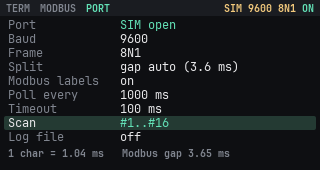
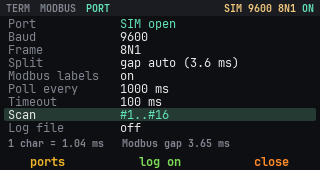
czkit: ShortcutBar for keys 4-8 under the display (Store layout); SerialPuter uses it
- cz::ShortcutBar: labels centred over keys 4..8, Store colours, disabled grey
- SerialPuter PORT: 4 rescan ports, 6 log, 8 open/close; F/X/Z/C as arrows without Fn
  on PORT and MODBUS (no text input there)

Claude-Session: https://claude.ai/code/session_017qLHAkC6kcghx4Uy9wAKgW

Changed region(s): [[0.0, 0.0882, 1.0, 1.0], [0.7812, 0.9118, 0.9062, 1.0], [0.4688, 0.1176, 0.5625, 0.1765]]

diff --git a/apps/serialputer/src/port_page.cpp b/apps/serialputer/src/port_page.cpp
@@ -8,9 +8,10 @@ namespace {
 
 namespace key = platform::key;
 
-constexpr int kRowY = 2;
-constexpr int kRowH = 14;
-constexpr int kInfoY = 131;
+constexpr int kRowY = 1;
+constexpr int kRowH = 13;
+constexpr int kInfoY = 121;
+constexpr int kBarY = kContentH - cz::ShortcutBar::kHeight;
 
 constexpr const char* kNames[PortPage::kRows] = {"Port",       "Baud",    "Frame", "Split", "Modbus labels",
                                                  "Poll every", "Timeout", "Scan",  "Log file"};
@@ -52,7 +53,8 @@ void PortPage::build(lv_obj_t* parent) {
     info_ = make_label(parent, s.ui10, s.dim);
     lv_obj_set_pos(info_, 8, kInfoY);
     lv_obj_set_width(info_, kWidth - 16);
-    lv_label_set_long_mode(info_, LV_LABEL_LONG_MODE_WRAP);
+    lv_label_set_long_mode(info_, LV_LABEL_LONG_MODE_DOTS);
+    bar_.build(parent, s, kBarY);
     ports_ = list_ports();
     refresh();
 }
@@ -126,7 +128,7 @@ void PortPage::refresh() {
         text = "no access: add the user to the dialout group";
         color = st.warn;
     } else if (sel_ == RPort) {
-        text = "Fn+Z/C choose   Enter open/close   SIM = demo bus";
+        text = "Z/C choose port   8 open/close   SIM = demo bus";
     } else if (sel_ == RSplit) {
         text = "gap: a pause ends a frame (Modbus)  line: LF ends it";
     } else if (sel_ == RLog) {
@@ -140,6 +142,11 @@ void PortPage::refresh() {
     }
     lv_obj_set_style_text_color(info_, color, 0);
     lv_label_set_text(info_, text.c_str());
+
+    const bool open = ctx_.engine.is_open();
+    bar_.set(4, "ports");
+    bar_.set(6, ctx_.engine.logging() ? "log off" : "log on");
+    bar_.set(8, open ? "close" : "open");
 }
 
 void PortPage::change(int dir) {
@@ -210,17 +217,46 @@ void PortPage::activate() {
 
 bool PortPage::on_key(const cz::KeyEvent& ev) {
     if (!ev.pressed_or_repeat()) return false;
+    if (ev.phase == cz::KeyPhase::Press && cz::ShortcutBar::is_key(ev.key)) {
+        switch (cz::ShortcutBar::key_of(ev.key)) {
+            case 4:
+                ports_ = list_ports();
+                ctx_.toast(std::to_string(ports_.size()) + " ports");
+                break;
+            case 6:
+                if (!ctx_.engine.set_logging(!ctx_.engine.logging())) ctx_.toast(ctx_.engine.error());
+                else ctx_.toast(ctx_.engine.logging() ? "Log: " + ctx_.engine.log_path() : "Log closed");
+                ctx_.status_changed();
+                break;
+            case 8: {
+                const int keep = sel_;
+                sel_ = RPort;
+                activate();
+                sel_ = keep;
+                break;
+            }
+            default:
+                return true;
+        }
+        refresh();
+        return true;
+    }
+    // no text input on this page: F/X/Z/C are arrows without Fn (launcher convention)
     switch (ev.key) {
         case key::Up:
+        case 'f':
             sel_ = (sel_ + kRows - 1) % kRows;
             break;
         case key::Down:
+        case 'x':
             sel_ = (sel_ + 1) % kRows;
             break;
         case key::Left:
+        case 'z':
             change(-1);
             return true;
         case key::Right:
+        case 'c':
         case ' ':
             change(1);
             return true;

diff --git a/common/src/view/shortcut_bar.h b/common/src/view/shortcut_bar.h
@@ -1,0 +1,40 @@
+// Labels for the number keys 4..8, which sit right under the CardputerZero display.
+//
+// Same layout as the official CardputerZero Store (appstore_shortcut_bar.cpp): one label
+// per key along the bottom edge, centred over the key (x = 48, 104, 160, 216, 272) and
+// coloured per key (4 yellow, 5 blue, 6 green, 7 purple, 8 orange). By the Store's
+// convention 4 is "back" and 8 the main action. A disabled action is drawn grey.
+#pragma once
+
+#include "lvgl.h"
+#include "ui_style.h"
+
+namespace cz {
+
+class ShortcutBar {
+public:
+    static constexpr int kFirstKey = 4;
+    static constexpr int kLastKey = 8;
+    static constexpr int kHeight = 17;  // the bar occupies y = 153..169
+
+    static int center_x(int key) { return 48 + (key - kFirstKey) * 56; }
+    static lv_color_t key_color(int key);
+    // the digit typed on that key, for on_key: is_key(ev.key) / key_of(ev.key)
+    static bool is_key(uint32_t code) { return code >= '0' + kFirstKey && code <= '0' + kLastKey; }
+    static int key_of(uint32_t code) { return static_cast<int>(code - '0'); }
+
+    // y: top of the bar inside parent (default: the screen's bottom edge for a full-screen parent;
+    // a page box that starts under the status bar passes kHeight - kStatusHeight - ShortcutBar::kHeight)
+    void build(lv_obj_t* parent, const Style& style, int y = cz::kHeight - kHeight);
+    // text empty: nothing shown for that key
+    void set(int key, const char* text, bool enabled = true);
+    void clear();
+    lv_obj_t* root() const { return root_; }
+
+private:
+    lv_obj_t* root_{nullptr};
+    lv_obj_t* labels_[kLastKey - kFirstKey + 1]{};
+    lv_color_t dim_{};
+};
+
+}  // namespace cz

diff --git a/apps/serialputer/src/serial_app.cpp b/apps/serialputer/src/serial_app.cpp
@@ -44,7 +44,7 @@ const char* help_for(PageId id) {
                    "Tab TERM > MODBUS > PORT   F6 theme";
         case PageId::Modbus:
             return "#63e2b7 MODBUS RTU MASTER#\n"
-                   "Fn+Z/C  field: ID FN REG N\n"
+                   "Z / C   field: ID FN REG N (no Fn)\n"
                    "0-9     type a value   Bksp erase\n"
                    "Space   on FN: next function\n"
                    "FN 01 coils  02 inputs\n"
@@ -55,7 +55,7 @@ const char* help_for(PageId id) {
                    "F5      scan addresses (PORT > Scan)\n"
                    "F2      value: U16 I16 HEX U32 I32 F32\n"
                    "        ABCD / CDAB = word order\n"
-                   "Fn+F/X  scroll the table\n"
+                   "F / X   scroll the table\n"
                    "F8      reset counters   Esc stop\n"
                    "\n"
                    "REG is the 0-based address on the wire:\n"
@@ -66,8 +66,10 @@ const char* help_for(PageId id) {
                    "the device.";
         case PageId::Port:
             return "#63e2b7 PORT#\n"
-                   "Fn+F/X  choose a row\n"
-                   "Fn+Z/C  change     Enter open/close\n"
+                   "F / X   choose a row (no Fn needed)\n"
+                   "Z / C   change     Enter open/close\n"
+                   "Keys under the screen:\n"
+                   "4 rescan ports  6 log on/off  8 open\n"
                    "\n"
                    "SIM     demo bus: BMS #1, inverter #16,\n"
                    "        modem (AT, ATI, AT+CSQ)\n"

diff --git a/common/src/view/shortcut_bar.cpp b/common/src/view/shortcut_bar.cpp
@@ -1,0 +1,44 @@
+#include "shortcut_bar.h"
+
+namespace cz {
+namespace {
+
+constexpr int kLabelW = 56;
+
+}  // namespace
+
+lv_color_t ShortcutBar::key_color(int key) {
+    switch (key) {
+        case 4: return lv_color_hex(0xF0B429);
+        case 5: return lv_color_hex(0x168CE5);
+        case 6: return lv_color_hex(0x7ED957);
+        case 7: return lv_color_hex(0xB069FF);
+        default: return lv_color_hex(0xFF8A2A);
+    }
+}
+
+void ShortcutBar::build(lv_obj_t* parent, const Style& style, int y) {
+    dim_ = style.dim;
+    root_ = make_box(parent, 0, y, kWidth, kHeight);
+    for (int k = kFirstKey; k <= kLastKey; ++k) {
+        auto* l = make_label(root_, style.ui12, key_color(k));
+        lv_obj_set_pos(l, center_x(k) - kLabelW / 2, 1);
+        lv_obj_set_size(l, kLabelW, kHeight - 1);
+        lv_obj_set_style_text_align(l, LV_TEXT_ALIGN_CENTER, 0);
+        lv_label_set_long_mode(l, LV_LABEL_LONG_MODE_DOTS);
+        labels_[k - kFirstKey] = l;
+    }
+}
+
+void ShortcutBar::set(int key, const char* text, bool enabled) {
+    if (key < kFirstKey || key > kLastKey || !root_) return;
+    auto* l = labels_[key - kFirstKey];
+    lv_label_set_text(l, text ? text : "");
+    lv_obj_set_style_text_color(l, enabled ? key_color(key) : dim_, 0);
+}
+
+void ShortcutBar::clear() {
+    for (int k = kFirstKey; k <= kLastKey; ++k) set(k, "");
+}
+
+}  // namespace cz

diff --git a/apps/serialputer/src/modbus_page.cpp b/apps/serialputer/src/modbus_page.cpp
@@ -311,10 +311,12 @@ bool ModbusPage::on_key(const cz::KeyEvent& ev) {
             ctx_.status_changed();
             break;
         case key::Left:
+        case 'z':  // F/X/Z/C are arrows without Fn here: only digits are typed on this page
             field_ = (field_ + kFields - 1) % kFields;
             fresh_ = true;
             break;
         case key::Right:
+        case 'c':
         case ' ':
             if (ev.key == ' ' && field_ == Fn) {
                 set_field_value(Fn, mb::next_read_fn(sess.req.fc, 1));
@@ -324,9 +326,11 @@ bool ModbusPage::on_key(const cz::KeyEvent& ev) {
             fresh_ = true;
             break;
         case key::Up:
+        case 'f':
             first_ = std::max(0, first_ - 1);
             break;
         case key::Down:
+        case 'x':
             ++first_;
             break;
         case key::Backspace:

diff --git a/apps/serialputer/src/port_page.h b/apps/serialputer/src/port_page.h
@@ -1,6 +1,7 @@
 #pragma once
 
 #include "app_context.h"
+#include "shortcut_bar.h"
 
 #include <vector>
 
@@ -35,6 +36,7 @@ private:
     lv_obj_t* names_[kRows]{};
     lv_obj_t* values_[kRows]{};
     lv_obj_t* info_{nullptr};
+    cz::ShortcutBar bar_;
 };
 
 }  // namespace ser_ui

diff --git a/CLAUDE.md b/CLAUDE.md
@@ -29,6 +29,14 @@
   Esc: коротко — app, довго — HOME (лаунчер) / quit (наш Runtime).
 - Іконки лаунчера: `/usr/share/APPLaunch/share/images/<name>.png` (~100×100), `.desktop` у `/usr/share/APPLaunch/applications/`.
 
+## Клавіші: домовленості CardputerZero (з офіційних launcher і Store)
+- F/X/Z/C без Fn = стрілки вгору/вниз/вліво/вправо (launcher docs, «F/X/Z/C Direction-Key Convention»), але лише там,
+  де немає введення тексту (у калькуляторах і терміналі — лише Fn+F/X/Z/C).
+- Клавіші 4–8 стоять під дисплеєм: `cz::ShortcutBar` (`common/src/view/shortcut_bar`) малює підписи над ними як Store
+  (`appstore_shortcut_bar.cpp`): центри x = 48/104/160/216/272, кольори 4 жовтий, 5 синій, 6 зелений, 7 фіолетовий,
+  8 помаранчевий; 4 — «назад», 8 — головна дія; недоступне сіре. Не для екранів, де цифри — введення (калькулятори, BANDS, MODBUS).
+  Зараз: SerialPuter PORT (4 ports, 6 log, 8 open/close), DiscPuter.
+
 ## Підводні камені
 - `lv_delay_ms()` без delay-callback — busy-wait (~90% CPU). У циклі `sleep_for` (вже в `Runtime::run`).
 - Mono.framework на Маку підсовує старий `png.h` → `CMAKE_FIND_FRAMEWORK=LAST` (локальний `CMakeUserPresets.json`, пресет `mac`).
